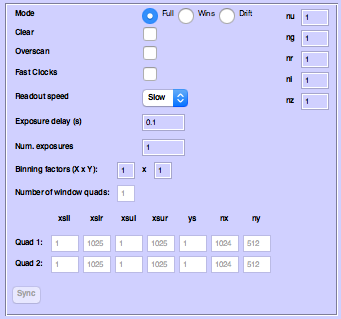
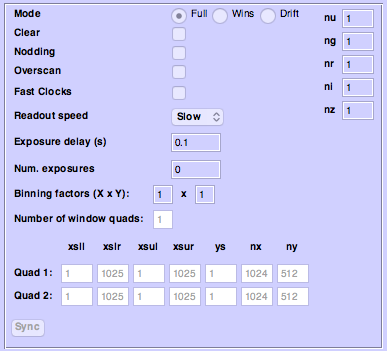
change docs to update the instructions on nodding

Changed region(s): [[0.0, 0.0, 0.9971, 1.0]]

diff --git a/docs/hipercam.rst b/docs/hipercam.rst
@@ -135,14 +135,12 @@ want to make a flat-field directly from the night sky observations themselves. :
 is always enabled when nodding the telescope, to avoid trails from bright stars appearing
 in the image.
 
-Whilst it is possible to nod in :ref:`windows`, the overheads involved in moving the telescope
-mean that there is little point in doing so, and we recommend full-frame mode with this option.
+The overheads involved in moving the telescope mean that there is little point in
+using any mode other than full-frame readout with this option.
 
-If you wish to nod the telescope, please indicate this in your phase II submission. Make sure
-you have :ref:`clear_mode` turned on in ``hfinder`` so that your S/N estimates are accurate.
-As part of your phase two submission, you will have to submit a plain text file specifying
-the offset pattern you require. The format of this file is a simple list of RA, Dec offsets
-in arcseconds as shown below::
+If you wish to nod the telescope, check the  :guilabel:`Nodding` checkbox. You will be prompted
+for a plain text file specifying the offset pattern you require. The format of this file is a
+simple list of RA, Dec offsets in arcseconds as shown below::
 
     0  0
     0  20
@@ -151,4 +149,6 @@ in arcseconds as shown below::
     0  20
 
 This offset pattern will be repeated until your exposures are finished. At the moment,
-there is no way to display the nodding pattern in ``hfinder`` itself.
+there is no way to display the nodding pattern in ``hfinder`` itself, but ``hfinder``
+will estimate the impact of nodding on your cadence and overal signal-to-noise. Until
+HiPERCAM is commissioned on-sky, these estimates will be quite crude.
